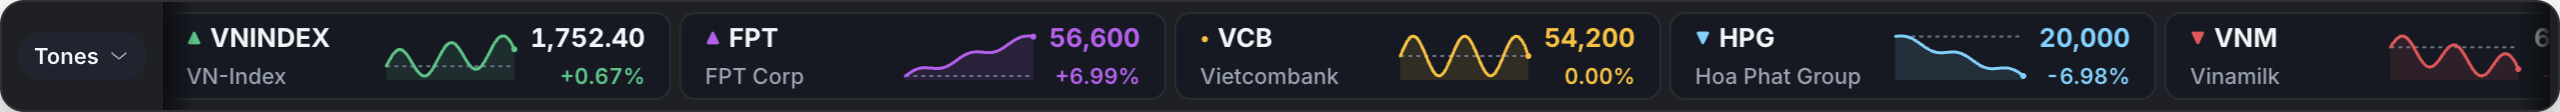
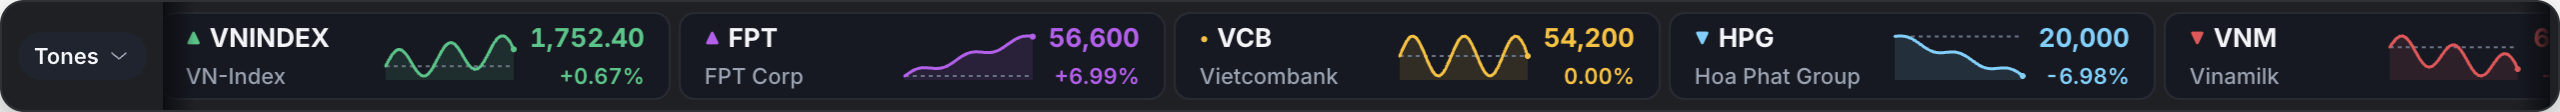
fix: price in the tone color; real-data regression test for sparkline tone
The price number takes the item's tone color (up green, down red,
unchanged gray or VN yellow, VN ceiling purple / floor cyan), the same
value as the glyph, % change and sparkline. A changed price flashes for
600 ms on an up/down chip instead of a text color change.

New e2e test tests/e2e/realData.spec.ts runs the real Vietcap provider
against recorded real payloads (a ceiling, a floor and a falling stock)
and checks that the sparkline color equals the price color.

diff --git a/tests/e2e/realData.spec.ts b/tests/e2e/realData.spec.ts
@@ -1,0 +1,98 @@
+import { expect, test, type Page } from '@playwright/test'
+import { isolateFromRealMouse, launch, removeDir, tempDir, type Launched } from './helpers'
+
+// REAL DATA (recorded): the real Vietcap provider parses tests/fixtures/vietcap/*-limits.json and
+// gap-chart-*.json, recorded 2026-11-09 10:30 ICT. SMA was at its ceiling, CMV at its floor and
+// VCI down. Not the fake provider: fixtureFetch.cjs replaces the network in the main process.
+const ROWS = [
+  { symbol: 'SMA', tone: 'ceiling', token: '--ceiling', price: '9,800' },
+  { symbol: 'CMV', tone: 'floor', token: '--floor', price: '7,890' },
+  { symbol: 'VCI', tone: 'down', token: '--down', price: '19,950' }
+] as const
+
+let dir: string
+let ctx: Launched
+
+test.beforeEach(async () => {
+  dir = await tempDir()
+  // The quotes arrive 1.5 s after the series, so each sparkline exists before its quote.
+  ctx = await launch(dir, { fixtures: true, env: { TOPTICK_FIXTURE_QUOTE_DELAY_MS: '1500' } })
+  await isolateFromRealMouse(ctx.app, ctx.bar)
+})
+
+test.afterEach(async () => {
+  await ctx.app.close()
+  await removeDir(dir)
+})
+
+const item = (bar: Page, symbol: string) => bar.locator(`[data-copy="0"] [data-testid="ticker-item"][data-id="vn:${symbol}"]`)
+
+async function colors(bar: Page, symbol: string, token: string) {
+  return item(bar, symbol).evaluate((el, tok) => {
+    const style = (id: string) => getComputedStyle(el.querySelector(`[data-testid="${id}"]`)!)
+    const probe = document.createElement('span')
+    probe.style.color = getComputedStyle(document.documentElement).getPropertyValue(tok)
+    document.body.append(probe)
+    const expected = getComputedStyle(probe).color
+    probe.remove()
+    return {
+      expected,
+      line: style('spark-line').stroke,
+      area: style('spark-area').fill,
+      dot: style('spark-dot').fill,
+      price: style('price').color,
+      pct: style('pct').color,
+      glyph: style('glyph').color
+    }
+  }, token)
+}
+
+async function expectMatchingColors(bar: Page, label: string): Promise<void> {
+  for (const theme of ['dark', 'light'] as const) {
+    expect((await bar.evaluate((t) => window.ticker.command({ type: 'setTheme', theme: t }), theme)).ok).toBe(true)
+    await expect(bar.locator('html')).toHaveAttribute('data-theme', theme)
+    for (const row of ROWS) {
+      const it = item(bar, row.symbol)
+      await expect(it.getByTestId('price')).toHaveText(row.price)
+      await expect(it.getByTestId('price')).not.toHaveAttribute('data-flash')
+      await expect(it.getByTestId('glyph')).toHaveAttribute('data-tone', row.tone)
+      await expect(it.getByTestId('sparkline')).toHaveAttribute('data-tone', row.tone)
+      const c = await colors(bar, row.symbol, row.token)
+      const where = `${label} ${theme} ${row.symbol}`
+      expect(c.line, where).toBe(c.expected)
+      expect(c.price, where).toBe(c.line)
+      expect(c.pct, where).toBe(c.line)
+      expect(c.glyph, where).toBe(c.line)
+      expect(c.area, where).toBe(c.line)
+      expect(c.dot, where).toBe(c.line)
+    }
+  }
+}
+
+test('real Vietcap payloads: ceiling and floor sparklines match the price color, live and after a reload', async () => {
+  const { bar } = ctx
+  await bar.evaluate(async (symbols) => {
+    const r = await window.ticker.command({ type: 'createWatchlist', name: 'Limits' })
+    if (!r.ok) throw new Error('createWatchlist failed')
+    const list = r.settings.watchlists.find((w) => w.name === 'Limits')!
+    for (const s of symbols) {
+      const { results } = await window.ticker.search('vn', s)
+      const instrument = results.find((i) => i.id === `vn:${s}`)
+      if (!instrument) throw new Error(`search ${s}: no result`)
+      const a = await window.ticker.command({ type: 'addItem', watchlistId: list.id, instrument })
+      if (!a.ok) throw new Error(`addItem ${s}: ${a.code}`)
+    }
+    await window.ticker.command({ type: 'setActiveWatchlist', id: list.id })
+  }, ROWS.map((r) => r.symbol))
+  for (const row of ROWS) {
+    await expect(item(bar, row.symbol)).toHaveAttribute('title', /Vietcap/, { timeout: 20_000 })
+    await expect(item(bar, row.symbol).getByTestId('spark-line')).toHaveCount(1)
+  }
+  // Quote and series came in as live market:update diffs.
+  await expectMatchingColors(bar, 'live')
+  // A reloaded bar starts from the market:snapshot of the same data.
+  await bar.reload()
+  await bar.waitForSelector('[data-testid="bar"]')
+  for (const row of ROWS) await expect(item(bar, row.symbol).getByTestId('spark-line')).toHaveCount(1)
+  await expectMatchingColors(bar, 'snapshot')
+})

diff --git a/tests/unit/sparklineTone.test.ts b/tests/unit/sparklineTone.test.ts
@@ -1,8 +1,11 @@
 import fs from 'node:fs'
 import { join } from 'node:path'
 import { describe, expect, it } from 'vitest'
+import { parseCafefBoard } from '../../src/main/market/providers/cafef'
+import { parseVietcapQuotes } from '../../src/main/market/providers/vietcap'
 import { itemTone, type PriceTone } from '../../src/shared/priceTone'
 import type { Market, Quote } from '../../src/shared/types'
+import { fixture, ict } from './helpers'
 
 const BAR = join(__dirname, '../../src/renderer/bar')
 
@@ -66,8 +69,8 @@ describe('sparkline color = price tone', () => {
     expect(SPARK[tone]).toBe(TOKEN[tone])
     // Same color as the glyph and % change of the item...
     expect(SPARK[tone]).toBe(ITEM[tone])
-    // ...and as the price itself where the price is tinted (VN ref/ceiling/floor).
-    if (tone === 'ref' || tone === 'ceiling' || tone === 'floor') expect(SPARK[tone]).toBe(PRICE[tone])
+    // ...and as the price number itself, in every tone.
+    expect(SPARK[tone]).toBe(PRICE[tone])
   })
 
   it('the dashed reference line stays neutral', () => {
@@ -78,5 +81,26 @@ describe('sparkline color = price tone', () => {
   it('has no color transition or animation (a tone change is an instant switch)', () => {
     const css = fs.readFileSync(join(BAR, 'Sparkline.module.css'), 'utf8')
     expect(css).not.toMatch(/transition|animation|@keyframes/)
+  })
+})
+
+// REAL DATA: Vietcap getList and the CafeF HOSE board recorded 2026-11-09 10:30 ICT. SMA was at
+// its ceiling (9,800), CMV at its floor (7,890), VCI (19,950 / 20,000) and VNG (5,060) down.
+describe('real provider payloads: one tone for price and sparkline', () => {
+  const now = ict(2026, 11, 9, 10, 30)
+  const expected: Record<string, PriceTone> = { 'vn:SMA': 'ceiling', 'vn:CMV': 'floor', 'vn:VCI': 'down', 'vn:VNG': 'down' }
+  const sources: [string, Quote[]][] = [
+    ['Vietcap', parseVietcapQuotes(fixture('vietcap/getList-limits.json'), now)!],
+    ['CafeF', parseCafefBoard(fixture('cafef/board-center1-limits.json'), new Set(['SMA', 'CMV', 'VCI', 'VNG']), now)!]
+  ]
+  it.each(sources)('%s', (_source, quotes) => {
+    expect(quotes.map((q) => q.id).sort()).toEqual(Object.keys(expected).sort())
+    for (const q of quotes) {
+      const tone = itemTone(q, 'vn')
+      expect(tone, q.id).toBe(expected[q.id])
+      expect(SPARK[tone], q.id).toBe(TOKEN[tone])
+      expect(PRICE[tone], q.id).toBe(SPARK[tone])
+      expect(ITEM[tone], q.id).toBe(SPARK[tone])
+    }
   })
 })

diff --git a/src/renderer/bar/PriceText.module.css b/src/renderer/bar/PriceText.module.css
@@ -5,16 +5,7 @@
   color: var(--text-1);
 }
 
-.ref {
-  color: var(--ref);
-}
-.ceiling {
-  color: var(--ceiling);
-}
-.floor {
-  color: var(--floor);
-}
-/* The up/down flash follows the tones, so it wins while it lasts. */
+/* The item's tone: the same color as the glyph, % change and sparkline (TickerItem, Sparkline). */
 .up {
   color: var(--up);
 }
@@ -23,21 +14,42 @@
   color: var(--down);
 }
 
-@media (prefers-reduced-motion: reduce) {
-  .up,
-  .down {
-    color: var(--text-1);
+.flat {
+  color: var(--flat);
+}
+
+/* VN: at the reference price, the ceiling and the floor. */
+.ref {
+  color: var(--ref);
+}
+
+.ceiling {
+  color: var(--ceiling);
+}
+
+.floor {
+  color: var(--floor);
+}
+
+/*
+ * The tick flash: the price is already in its tone color, so a changed price shows on a solid
+ * up/down chip for TINT_MS instead. The horizontal shadows widen the chip without moving the
+ * layout. Not shown with reduced motion.
+ */
+@media (prefers-reduced-motion: no-preference) {
+  .flashUp,
+  .flashDown {
+    color: var(--surface-0-base);
+    border-radius: var(--radius-s);
   }
-  .ref.up,
-  .ref.down {
-    color: var(--ref);
+
+  .flashUp {
+    background: var(--up);
+    box-shadow: -3px 0 0 var(--up), 3px 0 0 var(--up);
   }
-  .ceiling.up,
-  .ceiling.down {
-    color: var(--ceiling);
-  }
-  .floor.up,
-  .floor.down {
-    color: var(--floor);
+
+  .flashDown {
+    background: var(--down);
+    box-shadow: -3px 0 0 var(--down), 3px 0 0 var(--down);
   }
 }

diff --git a/tests/e2e/helpers.ts b/tests/e2e/helpers.ts
@@ -25,15 +25,23 @@ export async function removeDir(dir: string): Promise<void> {
   await fs.rm(dir, { recursive: true, force: true })
 }
 
-/** Launches the built app (`out/`) with an isolated userData dir; fake data unless `fake: false`. */
-export async function launch(userDataDir: string, opts: { fake?: boolean } = {}): Promise<Launched> {
+/**
+ * Launches the built app (`out/`) with an isolated userData dir; fake data unless `fake: false`.
+ * `fixtures: true` runs the real providers against recorded real payloads (fixtureFetch.cjs).
+ */
+export async function launch(
+  userDataDir: string,
+  opts: { fake?: boolean; fixtures?: boolean; env?: Record<string, string> } = {}
+): Promise<Launched> {
   const env: Record<string, string> = {}
   for (const [k, v] of Object.entries(process.env)) if (v !== undefined) env[k] = v
   delete env.ELECTRON_RENDERER_URL
   delete env.TOPTICK_FAKE_DATA
-  if (opts.fake !== false) env.TOPTICK_FAKE_DATA = '1'
+  if (opts.fake !== false && !opts.fixtures) env.TOPTICK_FAKE_DATA = '1'
   env.TOPTICK_USER_DATA_DIR = userDataDir
-  const app = await electron.launch({ args: ['.'], cwd: ROOT, env })
+  Object.assign(env, opts.env)
+  const args = opts.fixtures ? ['-r', join(__dirname, 'fixtureFetch.cjs'), '.'] : ['.']
+  const app = await electron.launch({ args, cwd: ROOT, env })
   const bar = await app.firstWindow()
   await bar.waitForSelector('[data-testid="bar"]')
   return { app, bar }

diff --git a/src/renderer/bar/PriceText.tsx b/src/renderer/bar/PriceText.tsx
@@ -2,12 +2,12 @@ import { useEffect, useRef, useState } from 'react'
 import type { PriceTone } from '../../shared/priceTone'
 import styles from './PriceText.module.css'
 
-/** Tones that color the price itself; up/down/flat prices stay in the text color. */
-const PRICE_TONES = new Set<PriceTone>(['ref', 'ceiling', 'floor'])
+const FLASH_CLASS = { up: styles.flashUp, down: styles.flashDown } as const
 
 /**
- * The changed price switches to the up/down color for TINT_MS, then back. No color
- * transition: a fade repaints the scrolling track on every frame (NFR-1); two paints suffice.
+ * The price takes the item's tone color. A changed price shows on an up/down chip for TINT_MS,
+ * then back. No transition: a fade repaints the scrolling track on every frame (NFR-1); two
+ * paints suffice.
  */
 const TINT_MS = 600
 
@@ -26,8 +26,7 @@ export function PriceText({ price, text, tone }: { price: number; text: string; 
     return () => clearTimeout(id)
   }, [price])
 
-  const base = tone && PRICE_TONES.has(tone) ? styles[tone] : undefined
-  const className = [styles.price, base, flash && styles[flash], 'num'].filter(Boolean).join(' ')
+  const className = [styles.price, tone && styles[tone], flash && FLASH_CLASS[flash], 'num'].filter(Boolean).join(' ')
   return (
     <span className={className} data-testid="price" data-flash={flash ?? undefined}>
       {text}

diff --git a/tests/e2e/bar.spec.ts b/tests/e2e/bar.spec.ts
@@ -359,7 +359,7 @@ test('each item is a separate tile without divider lines; the marquee moves on e
   expect(frames).toBeGreaterThan(40)
   expect(moves / frames).toBeGreaterThan(0.9)
 })
-test('sparkline line, area and dot use the price tone color in both themes (fake quotes)', async () => {
+test('price, sparkline line, area and dot use the item tone color in both themes (fake quotes)', async () => {
   const { app, bar } = ctx
   // FAKE DATA: [id, ref, price, ceiling, floor] -> expected tone.
   const rows = [
@@ -415,8 +415,8 @@ test('sparkline line, area and dot use the price tone color in both themes (fake
       expect(c.area).toBe(c.line)
       expect(c.dot).toBe(c.line)
       expect(Number(c.areaOpacity)).toBeLessThanOrEqual(0.12)
-      // The price number is tinted only at VN ref/ceiling/floor; there it matches the chart too.
-      if (row.tone === 'ref' || row.tone === 'ceiling' || row.tone === 'floor') expect(c.price).toBe(c.line)
+      // The price number takes the same tone color in every tone.
+      expect(c.price).toBe(c.line)
       // The dashed reference line keeps its neutral color.
       expect(c.refLine).toBe(c.text3)
     }

diff --git a/tests/unit/contrast.test.ts b/tests/unit/contrast.test.ts
@@ -74,6 +74,9 @@ describe.each(['dark', 'light'] as const)('green accent (Settings), %s theme', (
     expect(contrast(t['--knob']!, ring)).toBeGreaterThanOrEqual(3)
     if (ring !== t['--accent']) expect(contrast(ring, t['--accent']!)).toBeGreaterThanOrEqual(3)
   })
+  it.each(['--up', '--down'])('the price flash chip text (--surface-0-base) on %s >= 4.5:1', (chip) => {
+    expect(contrast(t['--surface-0-base']!, t[chip]!)).toBeGreaterThanOrEqual(4.5)
+  })
   it('selected text on the selection highlight >= 4.5:1', () => {
     expect(contrast(t['--text-1']!, t['--selection']!)).toBeGreaterThanOrEqual(4.5)
   })

diff --git a/README.md b/README.md
@@ -9,7 +9,7 @@ TopTick is a small desktop bar that scrolls live prices for Vietnamese stocks an
 - Always on top: the bar floats above your other windows.
 - Each item shows a ▲/▼ glyph, the symbol and name, a sparkline with a dashed reference line, the last price and the percent change.
 - Vietnamese stocks use the local board colors: yellow at the reference price, purple at the ceiling, cyan at the floor.
-- The sparkline uses the same color as the item's price and percent change.
+- One color per item for the glyph, the price, the percent change and the sparkline: green when up, red when down, plus the Vietnamese board colors above. A price that just changed flashes briefly on a green or red background.
 - More items than fit on the bar scroll sideways in a loop. Hovering pauses the scroll.
 - Watchlists: add, reorder, hide and show symbols, and switch lists from the bar.
 - Drag the bar to move it and drag its left or right edge to change its width. **Lock position** turns both off.
